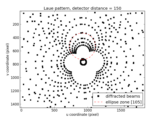
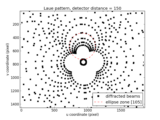
updated example laue_ellipse for changes in laue module

diff --git a/examples/plotting/laue_ellipse.py b/examples/plotting/laue_ellipse.py
@@ -9,21 +9,20 @@ from pymicro.xray.detectors import Varian2520
 if __name__ == '__main__':
     det_distance = 150.
     detector = Varian2520()
+    detector.ref_pos = np.array([det_distance, 0., 0.])
     ni = Lattice.face_centered_cubic(0.3524)
     phi1 = 89.4  # deg
     phi = 92.0  # deg
     phi2 = 86.8  # deg
     orientation = Orientation.from_euler([phi1, phi, phi2])
-    Bt = orientation.orientation_matrix().transpose()
-
     uvw = HklDirection(1, 0, 5, ni)
-    hklplanes = uvw.find_planes_in_zone(max_miller=8)
 
     all_planes = build_list(lattice=ni, max_miller=8)
-    compute_Laue_pattern(orientation, detector, det_distance, all_planes, inverted=True)
+    compute_Laue_pattern(orientation, detector, all_planes, color_field='constant', r_spot=10, inverted=True)
+    print(detector.data.max())
 
     plt.figure()  # new figure
-    plt.imshow(detector.data.T, cmap=cm.gray)
+    plt.imshow(detector.data.T, cmap=cm.gray, vmin=0, vmax=255)
     plt.axis('equal')
     plt.xlabel('u coordinate (pixel)')
     plt.ylabel('v coordinate (pixel)')
@@ -31,7 +30,7 @@ if __name__ == '__main__':
     plt.title("Laue pattern, detector distance = %g" % det_distance)
     plt.plot(detector.ucen, detector.vcen, 'ks', label='diffracted beams')
     uvw_miller = uvw.miller_indices()
-    ellipse = compute_ellpisis(orientation, detector, det_distance, uvw, verbose=True)
+    ellipse = compute_ellipsis(orientation, detector, det_distance, uvw, verbose=True)
     plt.plot(ellipse[0], ellipse[1], 'r--', label='ellipse zone [%d%d%d]' % uvw_miller)
     plt.legend(numpoints=1, loc='lower right')
 
@@ -40,5 +39,4 @@ if __name__ == '__main__':
     plt.savefig(image_name, format='png')
 
     from matplotlib import image
-
     image.thumbnail(image_name, 'thumb_' + image_name, 0.2)
